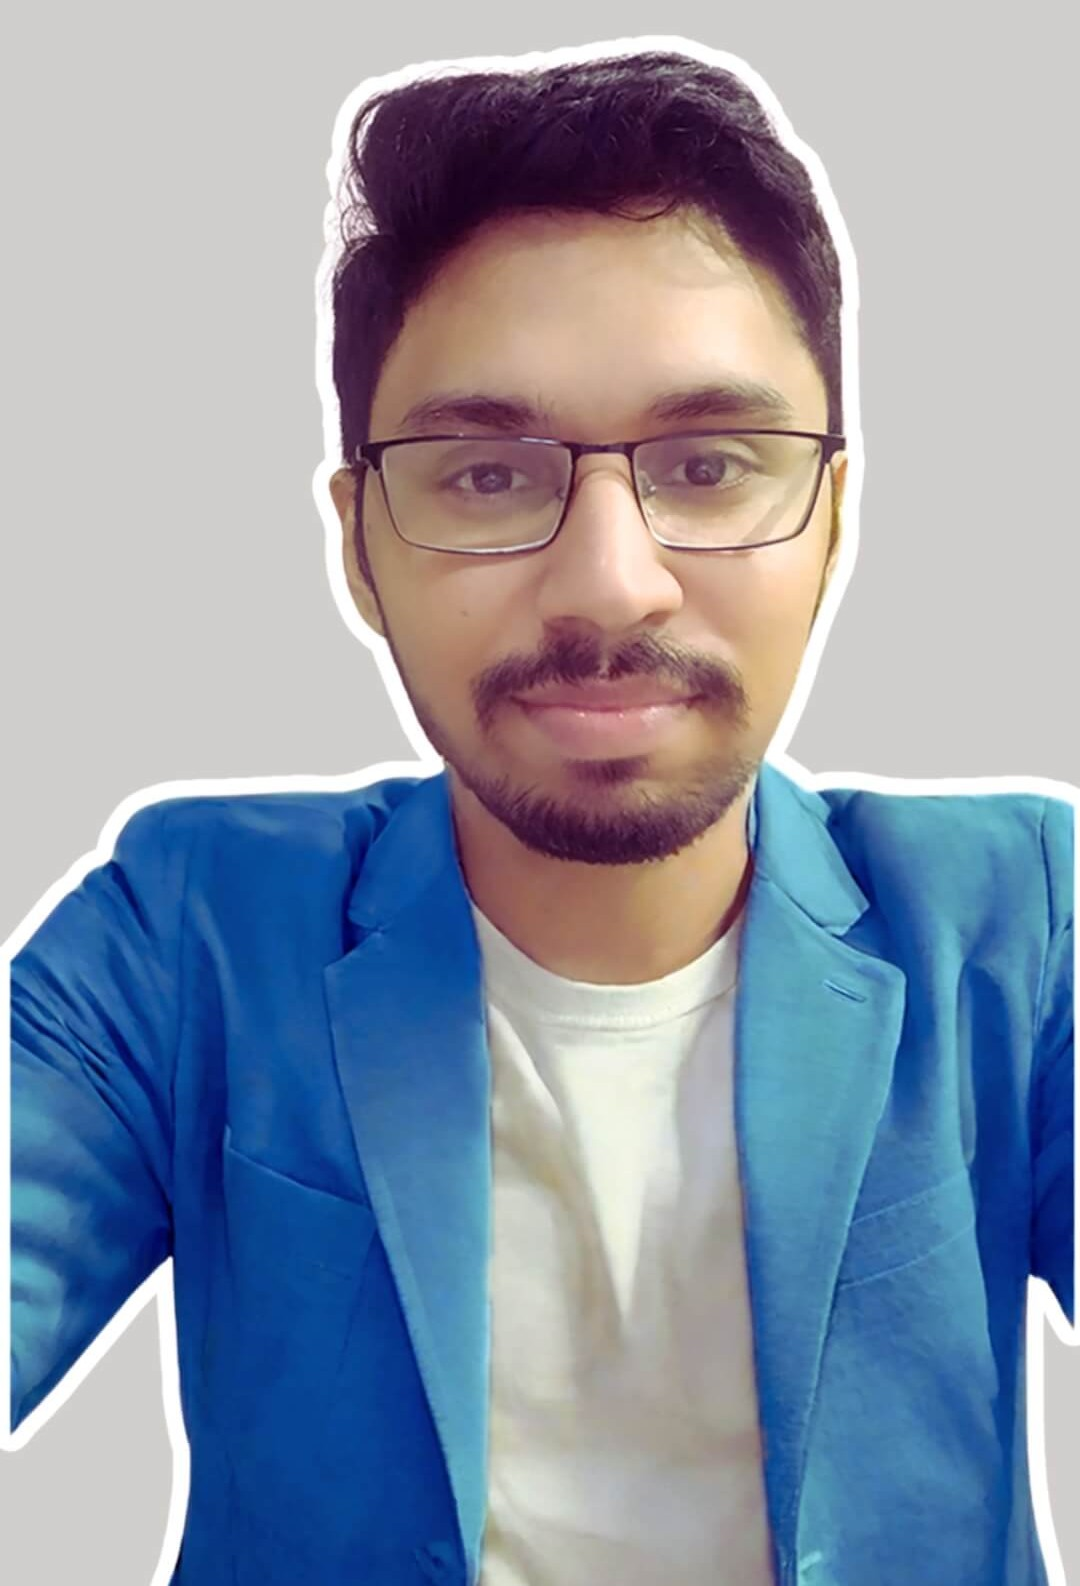
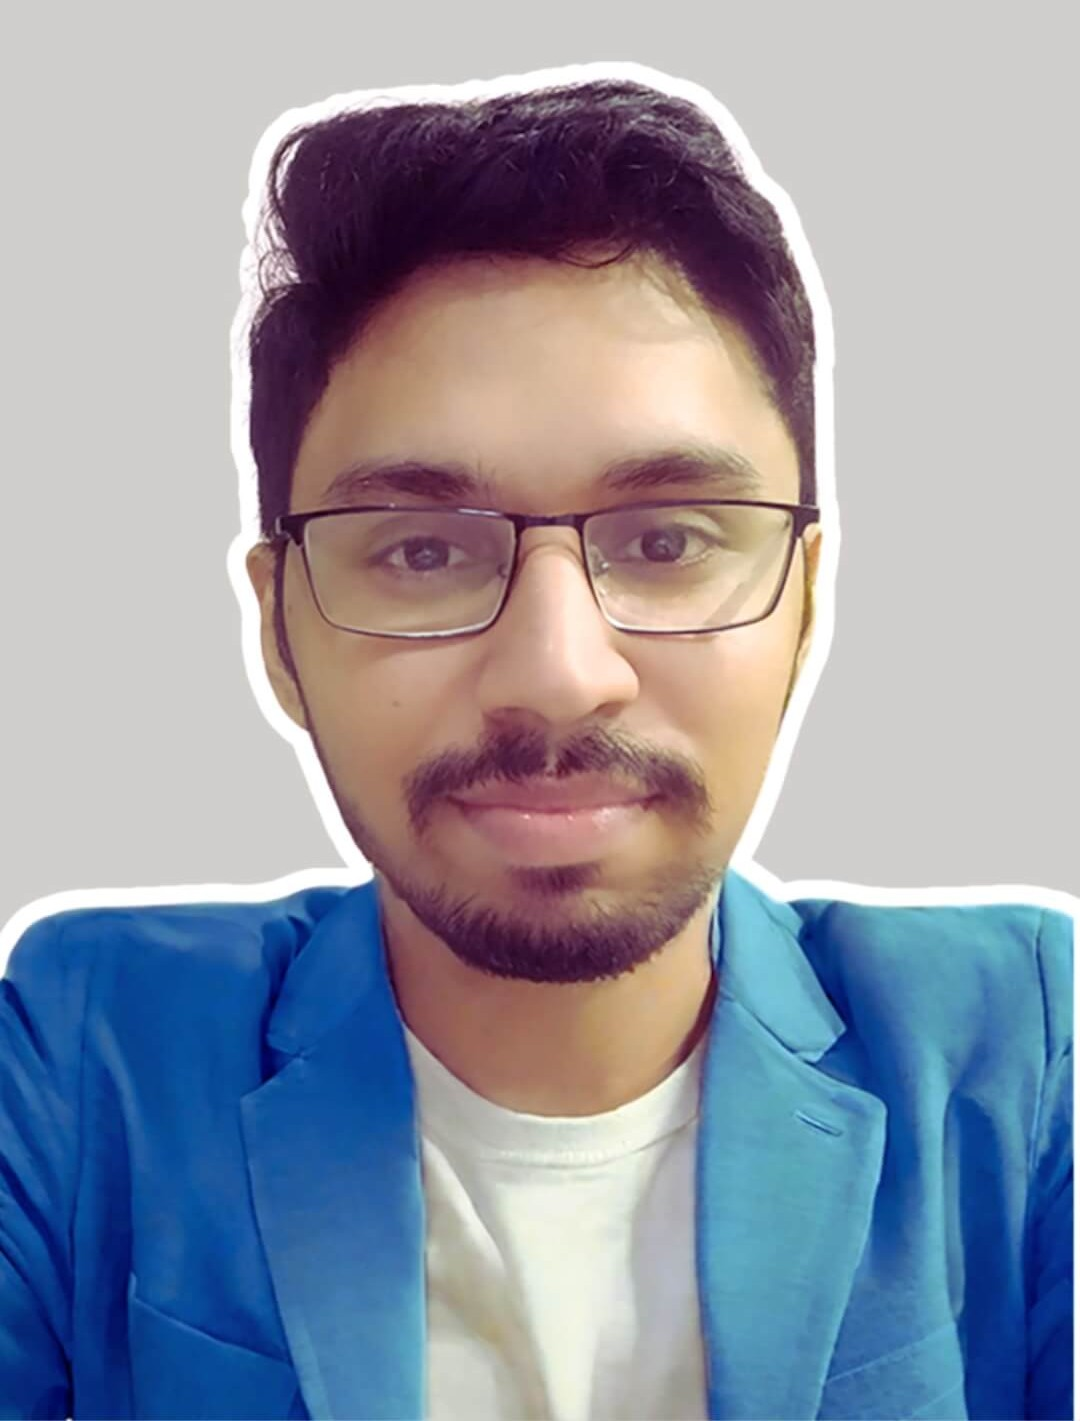
services

diff --git a/src/app/components/Navbar.jsx b/src/app/components/Navbar.jsx
@@ -1,8 +1,9 @@
-import React, { useRef, useState } from 'react';
+import React, { useEffect, useRef, useState } from 'react';
 import { assets } from '../../../assets/assets';
 import Image from 'next/image';
 
 const Navbar = () => {
+    const [isScroll, setIsScroll] = useState(false);
     const sideMenuRef = useRef(null);
 
     const openMenu = () => {
@@ -11,20 +12,33 @@ const Navbar = () => {
     const closeMenu = () => {
         sideMenuRef.current.style.transform = 'translateX(16rem)';
     }
-    
+
+    useEffect(() => {
+        window.addEventListener("scroll", () => {
+            if (window.scrollY > 50) {
+                setIsScroll(true);
+            } else {
+                setIsScroll(false);
+            }
+        })
+    }, [isScroll]);
+
+
   return (
       <>
-          <div className='fixed top-0 right-0 w-11/12 z-[-1] translate-y-[-80%]'>
-              <Image src={assets.header_bg_color} alt='header-bg' className='w-full' />
+          <div className='fixed top-0 right-0 w-11/12 z-[-1] translate-y-[-50%] opacity-50'>
+              <Image src={assets.header_bg_color_two} alt='header-bg' className='w-full' />
           </div>
 
-          <nav className='w-full flex items-center justify-between fixed top-0 left-0 px-5 lg:px-8 xl:px-[8%] py-4 z-50'>
+          <nav className={`w-full flex items-center justify-between fixed top-0 left-0 px-5 lg:px-8 xl:px-[8%] py-4 z-50
+             ${isScroll ? "bg-white/50 shadow-sm backdrop-blur-lg " : ""}`}>
               
               <a href='#home' className='flex-1  '>
                   <h2 className='font-extrabold md:text-4xl text-3xl font-Outfit'>AD<span className='text-orange-600 text-3xl'>.</span></h2>
               </a>
 
-              <ul className='hidden md:flex flex-1 justify-center items-center gap-6 lg:gap-8 rounded-full px-12 py-3 font-Ovo bg-white shadow-sm bg-opacity-50  '>
+              <ul className={`hidden md:flex flex-1 justify-center items-center gap-6 lg:gap-8 rounded-full px-12 py-3 font-Ovo 
+                 ${isScroll ? "" : "bg-white/80 shadow-sm"}`}>
                   <li><a  href="#home">Home</a></li>
                   <li><a  href="#about">About</a></li>
                   <li><a href="#services">Services</a></li>
@@ -46,11 +60,19 @@ const Navbar = () => {
 
                   
                   {/* MOBILE MENU BUTTON */}
-                  <button ref={sideMenuRef} className='md:hidden ml-3 flex items-center font-Outfit font-bold text-[17px] uppercase border border-gray-500 rounded-full px-6 py-1.5 cursor-pointer'
-                      onClick={openMenu}>
-                      Menu
-                      <Image src={assets.arrow_dark} alt='moon' className="w-2.5 ml-1.5" />
-                  </button>
+              {/* <button ref={sideMenuRef} className=' flex items-center font-Outfit font-bold text-[17px] uppercase border border-gray-500 rounded-full px-6 py-1 gap-1.5 cursor-pointer menu-bg'
+              > */}
+              {/* <span>Menu</span> */}
+              <div className="menu-trigger pt-2 md:hidden ml-3" onClick={openMenu}>
+                  <span className="menu-trigger-icon">
+                      <span className="hamburger ">
+                          <span></span>
+                          <span></span>
+                          <span></span>
+                      </span>
+                  </span>
+              </div>
+              {/* </button> */}
 
                   {/* mobile menu List */}
                   <ul ref={sideMenuRef} className={`md:hidden fixed top-0 bottom-0 w-64 z-50 bg-rose-50 h-screen flex flex-col gap-6 py-20 px-10  transition-all duration-500 font-ovo -right-64

diff --git a/src/app/globals.css b/src/app/globals.css
@@ -10,9 +10,14 @@
   --lightHover: #fcf4ff;
   --darkHover: #2a004a;
   --darkTheme: #11001F;
+
+
 }
 
 
+.hero-section-shade {
+  background: radial-gradient(72.04% 72.04% at 50% 3.99%, #89CFF0 0%, rgba(166, 151, 255, 0) 100%);
+}
 .resume-button {
   position: relative;
   overflow: hidden;
@@ -33,4 +38,113 @@
 .resume-button:hover::before {
   right: 0;
   
+}
+
+
+/* ---------- hamburger munu icon own ----------- */
+
+.menu-trigger .hamburger span {
+    height: 2px;
+    width: 26px;
+    display: block;
+    opacity: 1;
+    -webkit-transition: all 0.3s ease;
+    transition: all 0.3s ease;
+    background-color: black;
+}
+
+.menu-trigger .hamburger span:first-child {
+  
+    margin-bottom: 4px;
+}
+
+.menu-trigger .hamburger span:last-child {
+    margin-top: 4px;
+    width: 15px;
+    float: right;
+    -webkit-transition: width 0.3s;
+    transition: width 0.3s;
+}
+.menu-trigger .hamburger:hover span:last-child {
+    width: 26px; 
+}
+
+.menu-trigger .menu-trigger-icon {
+    display: block;
+    width: 26px;
+    height: 23px;
+    cursor: pointer;
+    text-align: center;
+    -webkit-transition: color 0.3s, background-color 0.3s;
+    transition: color 0.3s, background-color 0.3s;
+}
+/* 
+.bg-card-gradient {
+  background: linear-gradient(108.44deg, rgba(255, 255, 255, 0.1) 20.99%, rgba(255, 255, 255, 0.025) 84.05%);
+  padding: 60px 45px;
+  box-shadow: 0px 10px 51px rgba(0, 0, 0, 0.07);
+  display: flex;
+  transition: box-shadow 0.3s ease;
+  overflow: hidden;
+  position: relative;
+  border-radius: 1.5rem;
+} */
+
+.bg-card-gradient {
+  background: linear-gradient(108.44deg, rgba(255, 255, 255, 0.1) 20.99%, rgba(255, 255, 255, 0.025) 84.05%);
+  padding: 60px 45px;
+  display: flex;
+  transition: box-shadow 0.3s ease;
+  overflow: hidden;
+  position: relative;
+  border-radius: 1.5rem;
+}
+
+/* Light Mode Card Background */
+.bg-lightCard {
+  background: #ffffff; /* Light background */
+  box-shadow: 0px 10px 51px rgba(0, 0, 0, 0.1);
+}
+
+/* Dark Mode Card Background */
+.bg-darkCard {
+  background: rgba(255, 255, 255, 0.05); /* Dark background */
+  box-shadow: 0px 10px 51px rgba(0, 0, 0, 0.2);
+}
+
+/* Hover effect for cards */
+.bg-lightHover:hover {
+  background-color: #f0f0f0;
+}
+
+
+.bg-black-gradient {
+  background: linear-gradient(
+    144.39deg,
+    #ffffff -278.56%,
+    #6d6d6d -78.47%,
+    #11101d 91.61%
+  );
+}
+
+.bg-black-gradient-2 {
+  background: linear-gradient(
+    -168.39deg,
+    #ffffff -278.56%,
+    #6d6d6d -78.47%,
+    #11101d 91.61%
+  );
+}
+.blue__gradient_bg {
+  background: linear-gradient(180deg, rgba(188, 165, 255, 0) 0%, #214d76 100%);
+
+}
+.blue__gradient {
+  background: linear-gradient(180deg, rgba(188, 165, 255, 0) 0%, #214d76 100%);
+  filter: blur(123px);
+}
+
+.pink__gradient {
+  background: linear-gradient(90deg, #f4c4f3 0%, #fc67fa 100%);
+  /* filter: blur(900px); */
 }

diff --git a/assets/assets.js b/assets/assets.js
@@ -3,7 +3,14 @@ import arrow_dark from "./arrow-icon-dark.png";
 import header_bg_color from "./header-bg-color.png";
 import moon_icon from './moon_icon.png';
 import profile_img from './profile-image.png';
-import hand_icon from './hand-icon.png';
+import about_profile_img from "./profile-img.jpg";
+import hand_icon from "./hand-icon.png";
+import shape_img from "./shape-one.png";
+import react_icon from "./react.svg";
+import adobe_xd from "./xd.png";
+import header_bg_color_two from "./bg-three.png";
+import web_development_icon from "./web-design.png";
+import js_icon from "./js.png";
 
 export const assets = {
   arrow_light,
@@ -11,5 +18,48 @@ export const assets = {
   arrow_dark,
   moon_icon,
   profile_img,
-  hand_icon
+  about_profile_img,
+  hand_icon,
+  react_icon,
+  adobe_xd,
+  web_development_icon,
+  shape_img,
+  header_bg_color_two,
+  js_icon,
 };
+
+export const toolsIcon = [
+  assets.react_icon,
+  assets.react_icon,
+  assets.adobe_xd,
+  assets.adobe_xd,
+  assets.adobe_xd,
+  assets.adobe_xd,
+];
+
+export const servicesData = [
+  {
+    title: "UX-UI Design",
+    icon: assets.web_development_icon,
+    desc: "With expertise in React JS, Next JS, Redux, Node JS, Express, and MongoDB, I offer complete web development solutions tailored to your needs. Whether you're looking for a dynamic front-end or a robust back-end, I can build seamless, scalable applications that meet your specific requirements.",
+    link: "",
+  },
+  {
+    title: "Web Development",
+    icon: assets.web_development_icon,
+    desc: "With expertise in React JS, Next JS, Redux, Node JS, Express, and MongoDB, I offer complete web development solutions tailored to your needs. Whether you're looking for a dynamic front-end or a robust back-end, I can build seamless, scalable applications that meet your specific requirements.",
+    link: "",
+  },
+  {
+    title: "CMS Development",
+    icon: assets.web_development_icon,
+    desc: "With expertise in React JS, Next JS, Redux, Node JS, Express, and MongoDB, I offer complete web development solutions tailored to your needs. Whether you're looking for a dynamic front-end or a robust back-end, I can build seamless, scalable applications that meet your specific requirements.",
+    link: "",
+  },
+  {
+    title: "Logo Design",
+    icon: assets.web_development_icon,
+    desc: "With expertise in React JS, Next JS, Redux, Node JS, Express, and MongoDB, I offer complete web development solutions tailored to your needs. Whether you're looking for a dynamic front-end or a robust back-end, I can build seamless, scalable applications that meet your specific requirements.",
+    link: "",
+  },
+];

diff --git a/src/app/components/About.jsx b/src/app/components/About.jsx
@@ -1,0 +1,37 @@
+import React from 'react';
+import { assets, toolsIcon } from '../../../assets/assets';
+import Image from 'next/image';
+
+const About = () => {
+  return (
+      <div id='about' className='w-full px-[12%] py-10 scroll-mt-20'>
+          <h4 className='text-center mb-2 text-lg font-ovo'>Introduction</h4>
+          <h2 className='text-center text-5xl font-ovo'>About me</h2>
+
+          <div className='flex w-full flex-col lg:flex-row items-center gap-20 my-20'>
+              <div className='w-64 sm:w-80 rounded-3xl max-w-none'>
+                  <Image className="w-full rounded-2xl" src={assets.about_profile_img } alt="profile"/>
+              </div>
+              <div className='flex-1'>
+                  <p className='mb-10 max-w-3xl font-ovo text-[20px]'>
+                      I’m a React JS developer passionate about building dynamic, accessible web apps.
+                      Living with Muscular Dystrophy for 10 years fuels my drive to innovate and overcome challenges.
+                      Let's create something amazing together.
+                  </p>
+
+                  <h2 className='mb-5 text-2xl font-ovo uppercase'>Skills</h2>
+                  <ul className='flex items-center gap-3 sm:gap-5 '>
+                      {toolsIcon.map((icon, index) => (
+                          <li className='flex items-center justify-center w-12 sm:w-[120px] aspect-square 
+                           border border-gray-400  shadow-md rounded-full cursor-pointer hover:-translate-y-1 duration-500' key={index}>
+                              <Image src={icon} alt="icon" className='w-5 sm:w-16'/>
+                          </li>
+                      ))}
+                  </ul>
+              </div>
+          </div>
+     </div>
+  )
+}
+
+export default About;

diff --git a/src/app/components/Services.jsx b/src/app/components/Services.jsx
@@ -1,0 +1,31 @@
+import React from 'react'
+import { assets, servicesData } from '../../../assets/assets';
+import Image from 'next/image';
+
+const Services = () => {
+  return (
+      <div id='services' className='w-full  px-[12%] py-10 scroll-mt-20'>
+          <h4 className='text-center mb-2 text-lg font-ovo'>What I Do</h4>
+          <h2 className='text-center text-5xl font-ovo'>My Services</h2>
+          <p className='text-center max-w-4xl mx-auto mt-5 mb-12 font-ovo'>
+              I create custom, responsive websites optimized for performance and accessibility. I focus on delivering smooth user experiences across all devices, ensuring accessibility for everyone, and seamlessly integrating APIs to enhance functionality.
+          </p>
+          <div className='grid grid-cols-auto gap-10 my-10 grid-rows-auto' >
+              {servicesData.map(({title, icon, desc, link}, index) => (
+                  <div key={index}
+                      className='bg-card-gradient rounded-3xl px-8 py-8 relative z-1 hover:bg-lightHover transition-all hover:-translate-y-1 duration-500 bg-darkCard'>
+                      <div className='min-w-32'>
+                          <Image src={icon} alt={title} className='object-contain h-20' />
+                     </div>
+                      <div>
+                          <h3 className='text-3xl font-ovo mt-5'>{title}</h3>
+                          <p className='mt-4 font-ovo'>{desc}</p>
+                      </div>
+                  </div>
+              ))}
+          </div>
+        </div>
+     )
+}
+
+export default Services;

diff --git a/src/app/components/Header.jsx b/src/app/components/Header.jsx
@@ -5,7 +5,7 @@ import { assets } from '../../../assets/assets';
 
 const Header = () => {
   return (
-      <div className='w-11/12 max-w-5xl text-center mx-auto h-screen flex flex-col  
+      <div id='home' className='w-11/12 max-w-5xl text-center mx-auto h-screen flex flex-col  
       justify-center items-center gap-4'>
           <div className=' '>
               <Image src={assets.profile_img} alt='profile' className='rounded-full w-36  ' />

diff --git a/src/app/page.js b/src/app/page.js
@@ -1,13 +1,17 @@
 "use client";
 
+import About from "./components/About";
 import Header from "./components/Header";
 import Navbar from "./components/Navbar";
+import Services from "./components/Services";
 
 export default function Home() {
   return (
     <>
       <Navbar />
       <Header />
+      <About />
+      <Services />
     </>
   );
 }

diff --git a/src/app/layout.js b/src/app/layout.js
@@ -18,7 +18,7 @@ export const metadata = {
 
 export default function RootLayout({ children }) {
   return (
-    <html lang="en">
+    <html lang="en" className="scroll-smooth">
       <body
         className={`${outfit.className} ${ovo.className} antialiased 
       leading-8 overflow-x-hidden`}
